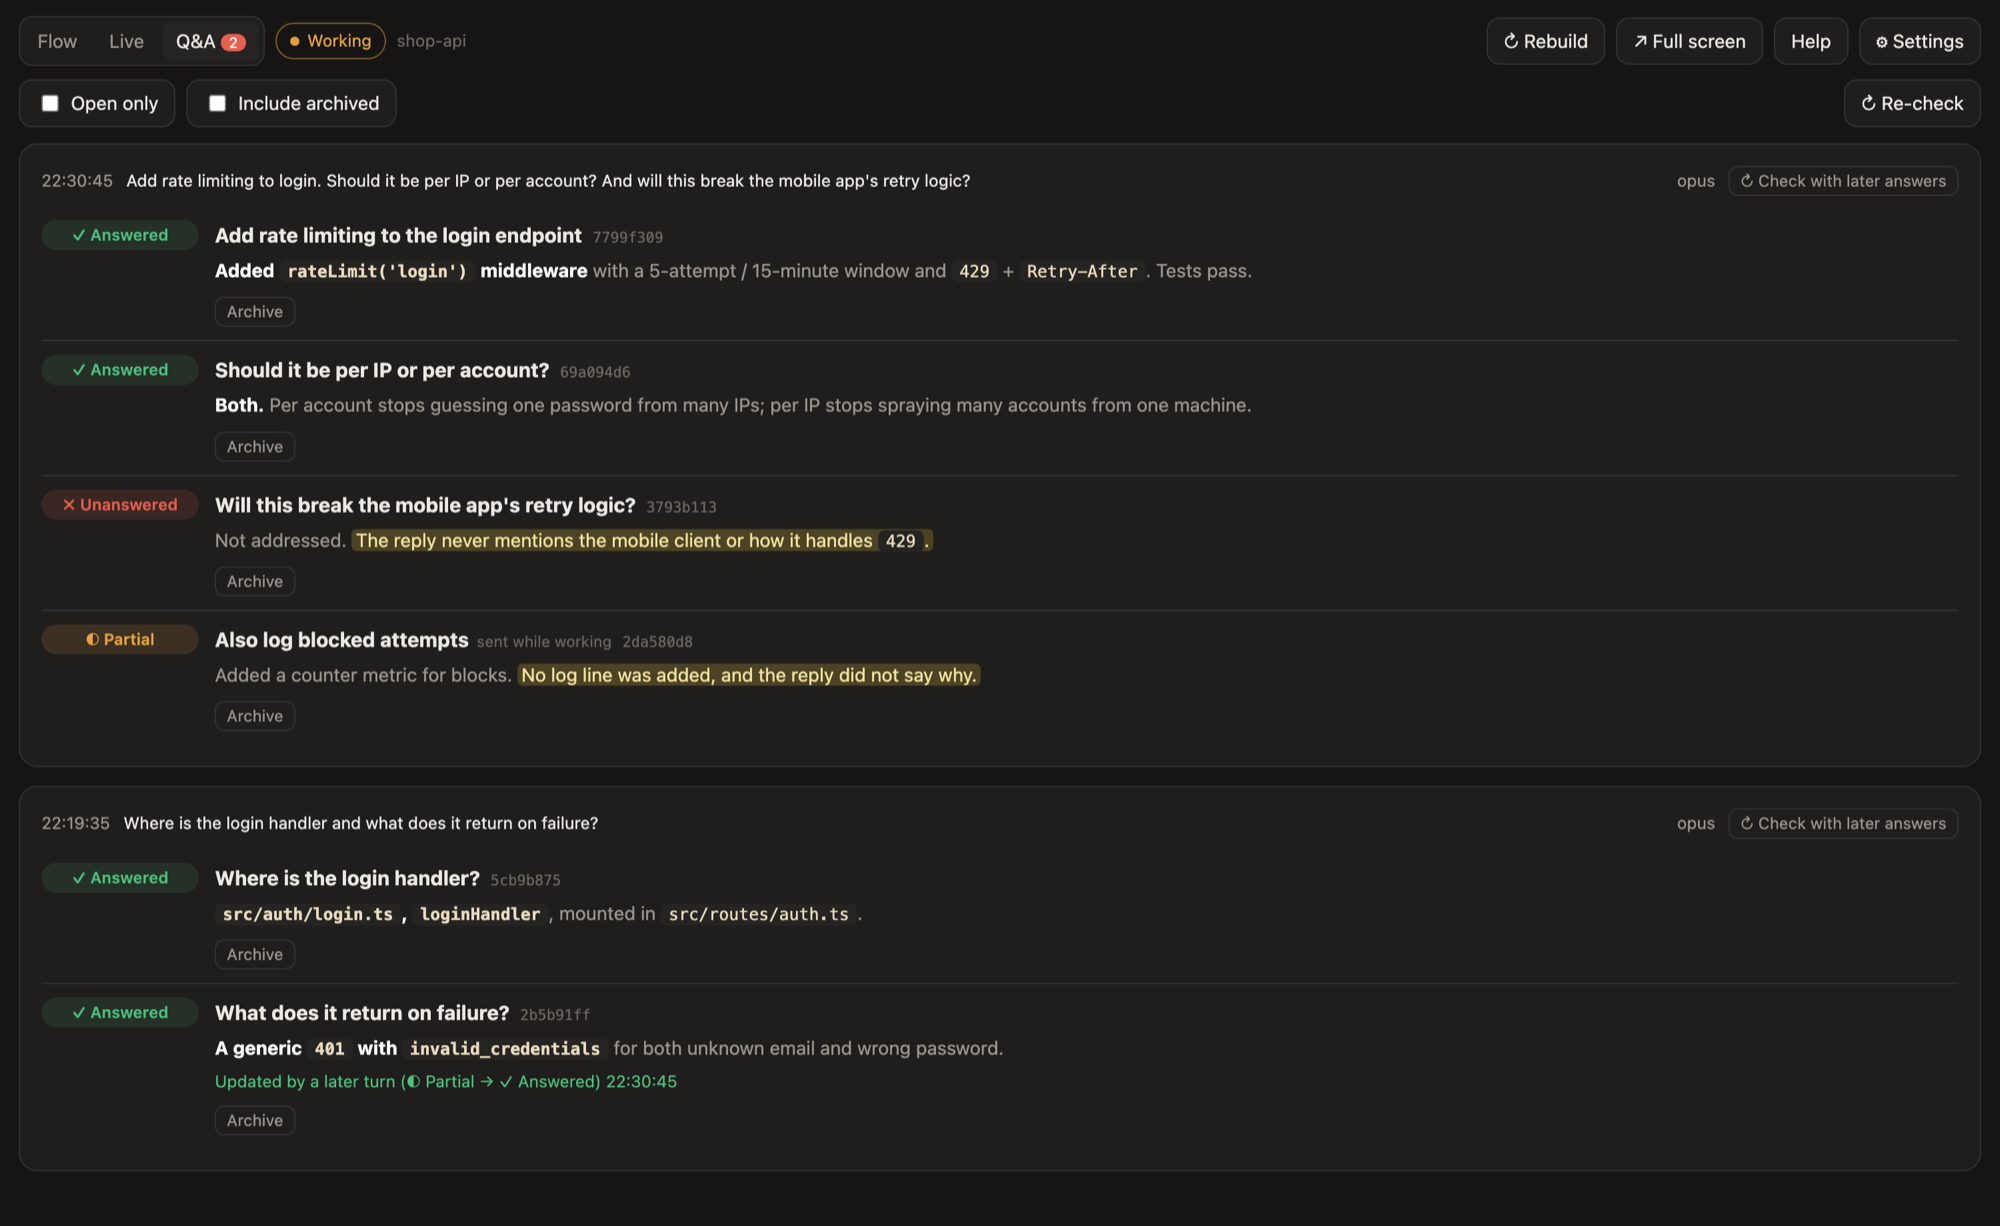
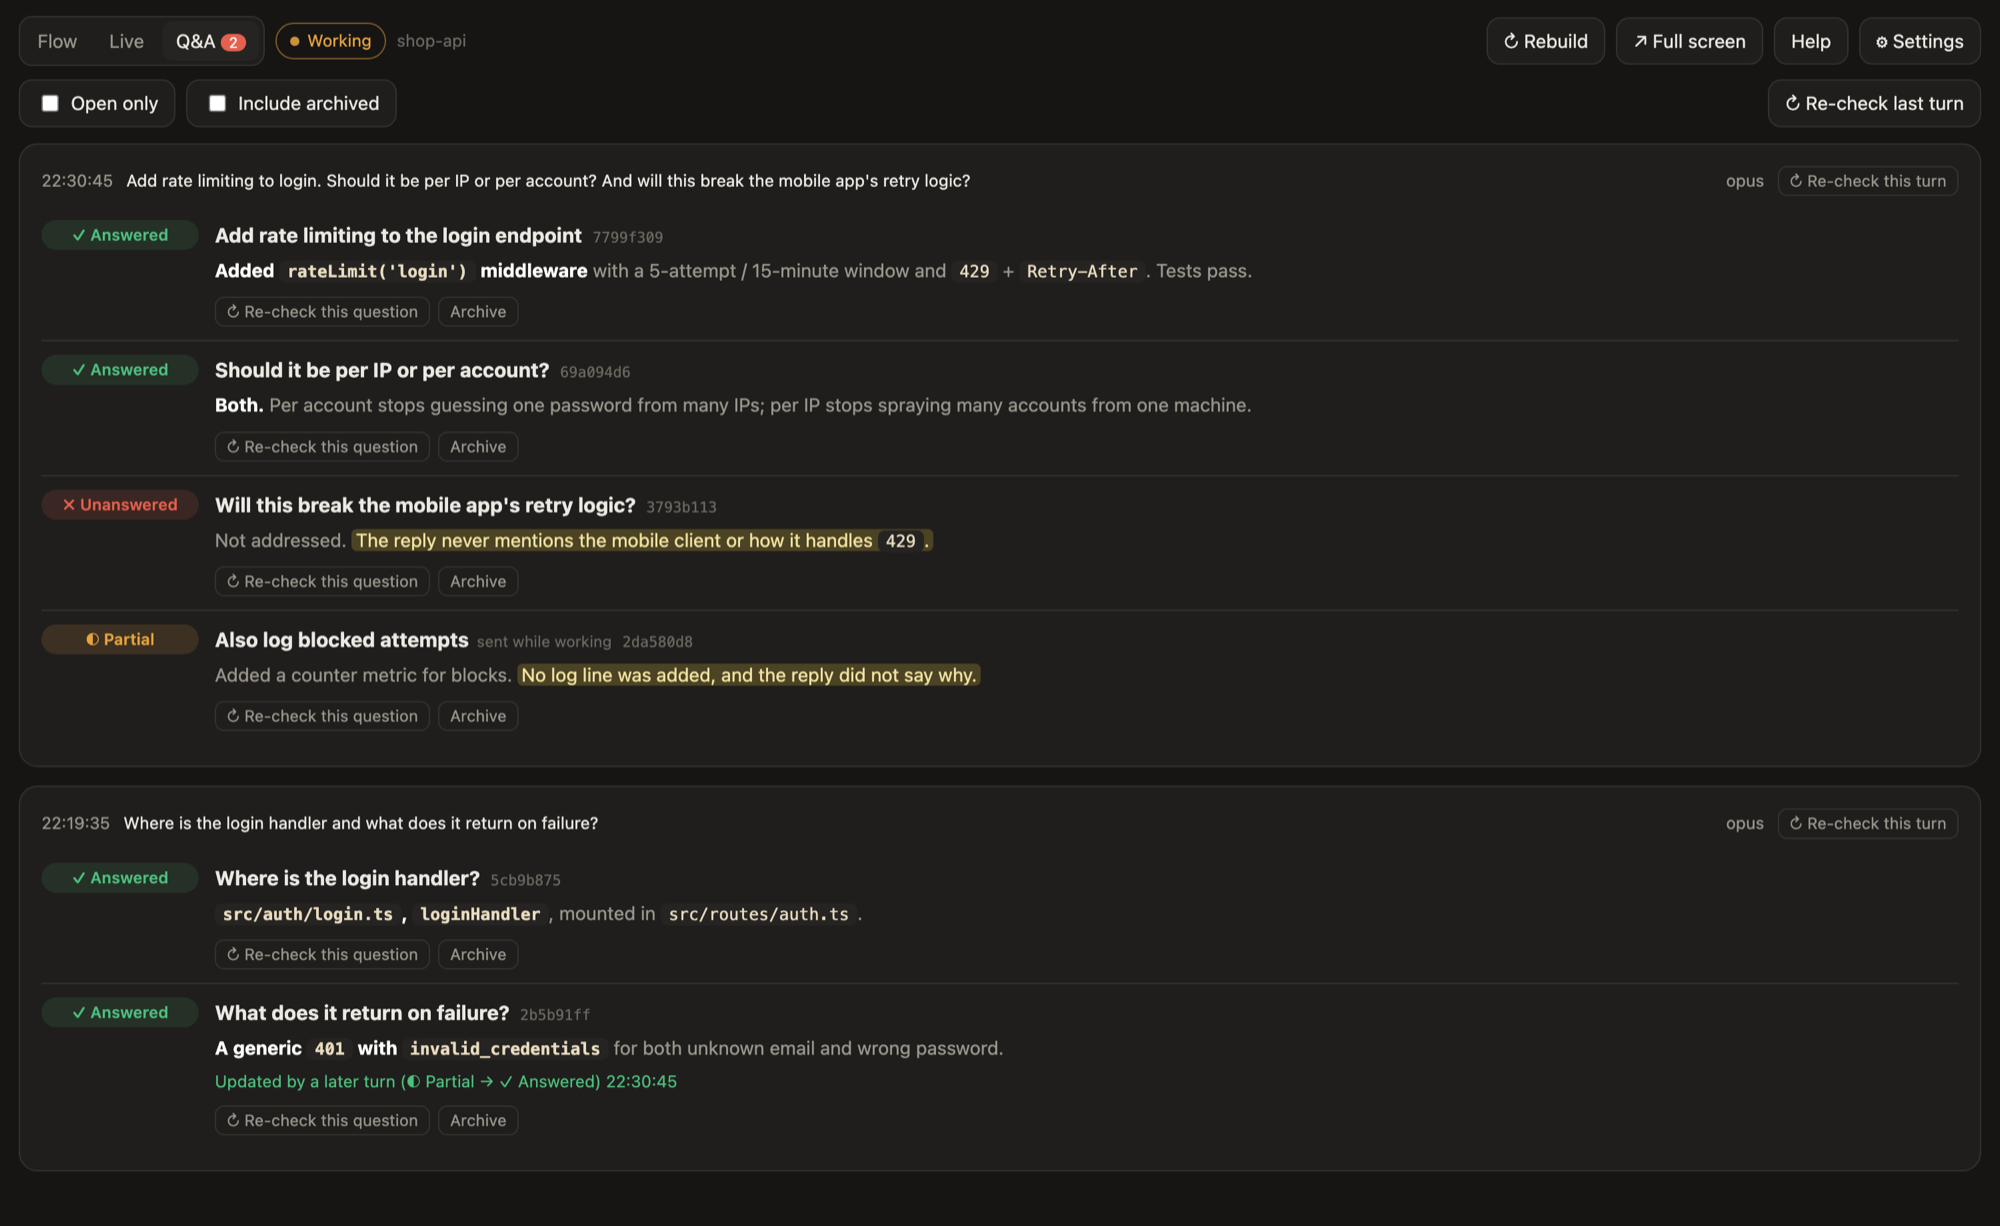
Q&A: re-check a single question; clearer re-check button labels
- qa.py --item re-judges one item against all later replies and leaves the rest of the turn untouched
- Buttons now say what they cover: last turn, this turn, this question

Claude-Session: https://claude.ai/code/session_0121ovcFUkEhWW55jjw4PbtV

diff --git a/app.html b/app.html
@@ -486,7 +486,8 @@ function renderTurn(turn, items) {
       <div><div class="q">${esc(item.question)}${item.from === "mid-turn" ? `<small>${t("midturn")}</small>` : ""}<span class="qid" title="claude-qa set ${esc(item.id)} answered">${esc(item.id)}</span></div>
       <div class="a">${inline(item.answer)}</div>
       ${item.resolved_in ? `<div class="resolved">${t("resolved", text(`st_${item.first_status}`), text(`st_${item.auto_status}`))} ${clock(item.resolved_at)}</div>` : ""}
-      <div class="qa-tools"><button class="mini" data-qa-archive="${n}" data-focus="archive-${esc(item.id)}">${item.archived ? t("restore") : t("archive")}</button>
+      <div class="qa-tools"><button class="mini" data-qa-recheck="${n}" title="${t("recheck_item_title")}">${t("recheck_item")}</button>
+      <button class="mini" data-qa-archive="${n}" data-focus="archive-${esc(item.id)}">${item.archived ? t("restore") : t("archive")}</button>
       ${item.manual ? `<button class="mini" data-qa-reset="${n}">${t("reset_auto")}</button>` : ""}</div></div></div>`;
   }).join("");
   return `<div class="card qa-turn"><div class="qa-head"><span>${clock(turn.ts)}</span><span class="p" title="${esc(turn.prompt)}">${esc(turn.prompt)}</span>
@@ -631,9 +632,9 @@ async function postOverride(ref, body) {
   await poll(true);
 }
 
-async function regen(target, turn) {
+async function regen(target, turn, item) {
   touch();
-  const query = `target=${target}${turn ? `&turn=${encodeURIComponent(turn)}` : ""}`;
+  const query = `target=${target}${turn ? `&turn=${encodeURIComponent(turn)}` : ""}${item ? `&item=${encodeURIComponent(item)}` : ""}`;
   const r = await api("POST", `/api/${KEY}/regen?${query}`);
   if (!r.ok) return notify(r.error, true);
   notify(text(target === "qa" ? "qa_checking" : "flow_started"));
@@ -657,7 +658,8 @@ document.addEventListener("click", async e => {
   touch();
   if (d.qaPage) { S.qaPage = Number(d.qaPage); render(); return window.scrollTo(0, 0); }
   if (d.qaTurn) return regen("qa", d.qaTurn);
-  const ref = S.qaRefs[Number(d.qaCycle ?? d.qaArchive ?? d.qaReset)];
+  const ref = S.qaRefs[Number(d.qaCycle ?? d.qaArchive ?? d.qaReset ?? d.qaRecheck)];
+  if (ref && d.qaRecheck !== undefined) return regen("qa", null, ref.id);
   if (ref && d.qaCycle !== undefined) return postOverride(ref, { status: QA_CYCLE[ref.status] || QA.ANSWERED });
   if (ref && d.qaArchive !== undefined) return postOverride(ref, { archived: !ref.archived });
   if (ref && d.qaReset !== undefined) return postOverride(ref, { status: null });

diff --git a/qa.py b/qa.py
@@ -1,9 +1,10 @@
 #!/usr/bin/env python3
 """List every question and request the user sent in a turn and whether Claude answered it.
 
-usage: qa.py <pane> <transcript_path> [turn_id] [--force]
+usage: qa.py <pane> <transcript_path> [turn_id] [--item=<id>] [--force]
 Without turn_id: the last turn, judged against its own replies, plus a re-check of earlier open items.
 With turn_id: that turn, judged against every reply up to the end of the transcript.
+With --item: only that item of the turn, judged against every reply up to the end of the transcript.
 """
 import os
 import sys
@@ -120,6 +121,27 @@ def build_message(turn, candidates):
     return message
 
 
+def recheck_item(pane, transcript, turn_id, wanted_id, model):
+    turn = extract(transcript, turn_id)
+    found = turn and qa_store.get_item(pane, turn["sid"], wanted_id)
+    if not found:
+        return
+    item = found[1]
+    candidate = {"turn_id": turn_id, "key": qa_store.item_key(turn_id, item.get("question", "")), "item": item}
+    message = build_message(turn, [candidate]) + (
+        "\n\nOnly re-judge the earlier open question p1, against all replies above including later turns. Return items as an empty list.")
+    with Pending(qa_store.pending_path(pane), item=wanted_id):
+        try:
+            data, _ = run_claude(SYSTEM + language_instruction(pane), SCHEMA, message, model, timeout=TIMEOUT, max_turns=MAX_TURNS)
+        except (RuntimeError, OSError):
+            return
+        verdict = next((f for f in data.get("followups") or [] if isinstance(f, dict) and f.get("id") == "p1"), None)
+        status = qa_store.Status.parse((verdict or {}).get("status"))
+        if status:
+            with qa_store.session_lock(pane, turn["sid"]):
+                qa_store.set_verdict(pane, turn["sid"], turn_id, item.get("question", ""), status, verdict.get("answer"))
+
+
 def main():
     args = [a for a in sys.argv[1:] if not a.startswith("--")]
     if len(args) not in (2, 3):
@@ -129,6 +151,9 @@ def main():
     settings = config.load(pane)
     if not settings["qa_auto"] and "--force" not in sys.argv:
         return
+    item = next((a.split("=", 1)[1] for a in sys.argv[1:] if a.startswith("--item=")), None)
+    if item and turn_id:
+        return recheck_item(pane, transcript, turn_id, item, settings["model"])
     turn = extract(transcript, turn_id)
     if not turn or not turn["turn_id"] or not any(text.strip() for _, text in turn["users"]):
         return

diff --git a/qa_store.py b/qa_store.py
@@ -78,12 +78,18 @@ def with_overrides(pane, recs):
     return out
 
 
-def find_item(pane, sid, wanted_id):
+def get_item(pane, sid, wanted_id):
+    """(record, item) for the item with this id in the session, or None."""
     for rec in records(pane, sid):
         for item in rec.get("items") or []:
             if item_id(rec.get("turn_id"), item.get("question", "")) == wanted_id:
-                return rec.get("turn_id"), item.get("question", "")
+                return rec, item
     return None
+
+
+def find_item(pane, sid, wanted_id):
+    found = get_item(pane, sid, wanted_id)
+    return (found[0].get("turn_id"), found[1].get("question", "")) if found else None
 
 
 def set_override(pane, turn_id, question, status=..., archived=None):
@@ -156,3 +162,20 @@ def apply_followups(pane, sid, candidates, followups, resolved_in):
                     item["answer"] = change[1]
                 item["resolved_in"], item["resolved_at"] = resolved_in, time.time()
         atomic_write_json(path, rec)
+
+
+def set_verdict(pane, sid, turn_id, question, status, answer):
+    """Replace one item's verdict after an explicit re-check (may raise or lower it)."""
+    path = record_path(pane, sid, turn_id)
+    rec = read_json(path)
+    if not isinstance(rec, dict):
+        return
+    key = item_key(turn_id, question)
+    for item in rec.get("items") or []:
+        if item_key(turn_id, item.get("question", "")) == key:
+            item.setdefault("first_status", item.get("status"))
+            item["status"] = status.value
+            if answer:
+                item["answer"] = answer
+            item["rechecked_at"] = time.time()
+    atomic_write_json(path, rec)

diff --git a/server.py b/server.py
@@ -210,15 +210,23 @@ class Handler(BaseHTTPRequestHandler):
             return self.error(409, "err_no_turn", pane=pane)
         target = self.param("target")
         turn_id = self.param("turn")
-        if target not in ("flow", "qa") or (turn_id is not None and not ID_RE.match(turn_id)):
+        item = self.param("item")
+        if target not in ("flow", "qa") or any(v is not None and not ID_RE.match(v) for v in (turn_id, item)):
             return self.error(400, "err_bad_request", pane=pane)
+        if item:
+            sid = snapshot(pane)["sid"]
+            found = qa_store.get_item(pane, sid, item) if sid else None
+            if not found:
+                return self.error(404, "err_no_id", item, pane=pane)
+            turn_id = found[0].get("turn_id")
+            last = {**last, "transcript": found[0].get("transcript") or last["transcript"]}
         marker = qa_store.pending_path(pane) if target == "qa" else os.path.join(BASE, "flows", pane, "pending")
         if Pending.active(marker):
             return self.error(409, "err_running", pane=pane)
         if target == "flow":
             args = ["flow.py", pane, last["transcript"], last.get("cwd") or ""]
         else:
-            args = ["qa.py", pane, last["transcript"]] + ([turn_id] if turn_id else [])
+            args = ["qa.py", pane, last["transcript"]] + ([turn_id] if turn_id else []) + ([f"--item={item}"] if item else [])
         subprocess.Popen([sys.executable, os.path.join(BASE, args[0]), *args[1:], "--force"],
                          stdin=subprocess.DEVNULL, stdout=subprocess.DEVNULL, stderr=subprocess.DEVNULL, start_new_session=True)
         self.json({"ok": True})

diff --git a/README.ja.md b/README.ja.md
@@ -113,7 +113,7 @@ git clone <このリポジトリ> ~/.claude/activity-panel
 それが目的です。変更された機能を実行ステップとして展開し、現在のファイルから実際のコードを抜粋して見せます。ファイルを編集したターンでのみ自動で動き、説明だけのターンでは ↻ を押してください。
 
 **後のターンで答えたのに、まだ「一部」と表示されます。**
-各ターンはそのターンの回答で判定されます。ターンが終わると、同じセッションの以前のターンで未回答の項目 (最大 20 件) をそのターンと照らし合わせ、答えられていれば更新します。それより古い項目は、そのターンの「↻ 後の回答も含めてチェック」を押すか、状態を手動で変更してください。
+各ターンはそのターンの回答で判定されます。ターンが終わると、同じセッションの以前のターンで未回答の項目 (最大 20 件) をそのターンと照らし合わせ、答えられていれば更新します。それより古い項目は、そのターンの「↻ このターンを再チェック」(一つの質問だけなら「↻ この質問だけ再チェック」)を押すか、状態を手動で変更してください。
 
 **パネルを隠したり、オフにしたりするには?**
 `claude-panel` で表示 / 非表示を切り替えます。自動で開かないようにするには「セッション開始時にパネルを開く」をオフにします。削除するには `uninstall.sh` を実行します (`--purge` を付けると記録と設定も消えます)。

diff --git a/README.ko.md b/README.ko.md
@@ -113,7 +113,7 @@ git clone <이 저장소> ~/.claude/activity-panel
 그게 목적입니다. 바뀐 기능을 실행 단계로 펼치고 현재 파일에서 실제 코드를 발췌해 보여줍니다. 파일을 고친 턴에만 자동으로 돌고, 설명만 한 턴은 ↻ 를 누르면 됩니다.
 
 **나중 턴에서 답했는데 아직 일부로 나와요.**
-각 턴은 그 턴의 답변으로 판정합니다. 턴이 끝날 때 같은 세션의 이전 턴에서 답을 못 받은 항목(최대 20개)을 그 턴과 다시 대조해, 답했으면 올려 줍니다. 더 오래된 항목은 그 턴의 "↻ 이후 답변까지 점검" 을 누르거나 상태를 직접 바꾸세요.
+각 턴은 그 턴의 답변으로 판정합니다. 턴이 끝날 때 같은 세션의 이전 턴에서 답을 못 받은 항목(최대 20개)을 그 턴과 다시 대조해, 답했으면 올려 줍니다. 더 오래된 항목은 그 턴의 "↻ 이 턴 다시 점검" (질문 하나만이면 "↻ 이 질문만 다시 점검") 을 누르거나 상태를 직접 바꾸세요.
 
 **패널을 숨기거나 끄려면?**
 `claude-panel` 로 숨기거나 보입니다. 저절로 열리지 않게 하려면 "세션 시작 때 패널 열기" 를 끕니다. 제거하려면 `uninstall.sh` 를 실행합니다 (`--purge` 를 붙이면 기록과 설정까지 지움).

diff --git a/README.md b/README.md
@@ -113,7 +113,7 @@ No. The analysis runs in a separate process after the turn ends and never adds t
 That is what it is for: it lays out the changed feature as runtime steps and shows real excerpts from the current files. It runs automatically only for turns that edited files; for an explain-only turn press ↻.
 
 **A question was answered in a later turn but still shows as partial.**
-Each turn is judged against its own replies. When a turn ends, open items from earlier turns in the session (up to 20) are re-checked against it and upgraded if answered. For older items press "↻ Check with later answers" on that turn, or set the status yourself.
+Each turn is judged against its own replies. When a turn ends, open items from earlier turns in the session (up to 20) are re-checked against it and upgraded if answered. For older items press "↻ Re-check this turn" (or "↻ Re-check this question" for a single item) on that turn, or set the status yourself.
 
 **How do I hide the panel or turn it off?**
 `claude-panel` hides or shows it. To stop it opening on its own, switch off "Open panel at session start". To remove it, run `uninstall.sh` (add `--purge` to delete recorded data and settings too).
